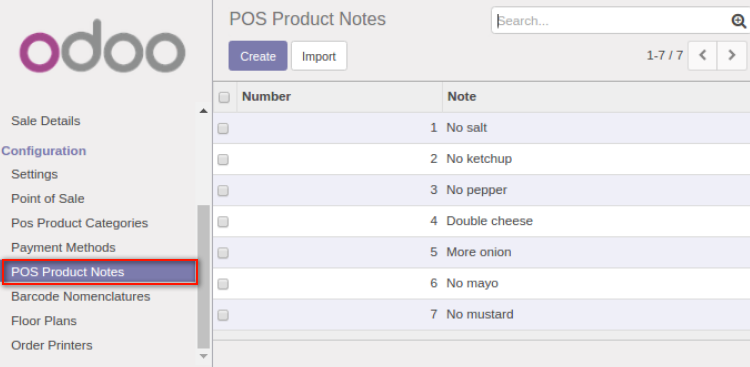
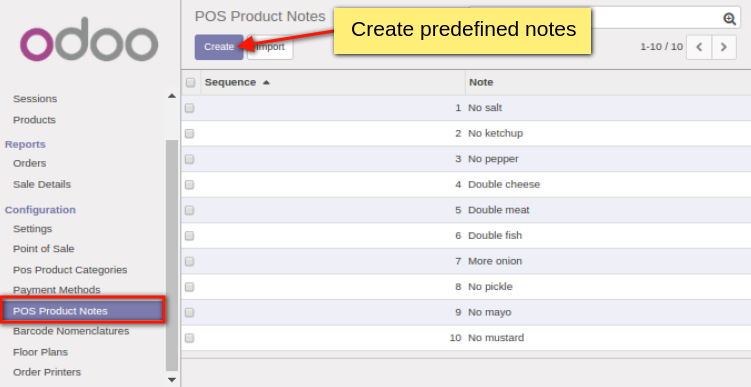
[DOC] documentation for pos_order_note module (it-projects-llc/addons-dev#255)
* [DOC] documentation for pos_order_note module

diff --git a/pos_order_note/static/description/index.html b/pos_order_note/static/description/index.html
@@ -5,7 +5,7 @@
             <h3 class="oe_slogan">Set predefined notes for separate product or entire order</h3>
         </div>
 		<div class="oe_row_img oe_centered">
-		  <img class="oe_demo oe_picture oe_screenshot" src="pos_note_dashboard.png"/>
+		  <img class="oe_demo oe_picture oe_screenshot" src="pos_note_dashboard.png?1"/>
 		</div>
     </div>
 </section>
@@ -33,6 +33,10 @@
 				<i class="fa fa-check-square-o text-primary"></i>
 				create any number of notes
 			  </li>
+			  <li>
+				<i class="fa fa-check-square-o text-primary"></i>
+				ability to apply several notes simultaneously
+			  </li>
 			</ul>
 		</div>
       </p>		
@@ -45,45 +49,45 @@
 	<h3 class="oe_slogan">How It Works</h3>
         <div class="oe_span12 text-center">
           <p class="oe_mt32">
-			Go to <em>Point of Sale &rarr; Configuration &rarr; POS Product Notes</em> menu and create any number of notes
+			<font size="3px">Go to <em>Point of Sale &rarr; Configuration &rarr; POS Product Notes</em> menu and create any number of notes. In POS the notes are displayed depending on sequence value.</font>
           </p>		
         </div>
         <div class="oe_row_img oe_centered">
-          <img class="oe_demo oe_picture oe_screenshot" src="pos_note_config.png"/>
+          <img class="oe_demo oe_picture oe_screenshot" src="pos_note_config.png?1"/>
         </div>
   </div>
 </section>
 
 <section class="oe_container oe_dark">
   <div class="oe_row oe_spaced">
-	<h4 class="oe_slogan">Product Note</h4>
+	<h4 class="oe_slogan">Product Notes</h4>
     <div class="oe_span12 text-center">
       <p class="oe_mt32">
-		Open POS session and click on the "Note" button. By default you can see Product Notes
+		<font size="3px">Open POS session and click on the "Note" button. By default you can see Product Notes</font>
       </p>
     </div>
 	<div class="oe_row_img oe_centered">
-      <img class="oe_demo oe_picture oe_screenshot" src="pos_product_note.png"/>
+      <img class="oe_demo oe_picture oe_screenshot" src="pos_product_note.png?1"/>
     </div>
 	<div class="oe_row_img oe_centered">
-      <img class="oe_demo oe_picture oe_screenshot" src="pos_product_note1.png"/>
+      <img class="oe_demo oe_picture oe_screenshot" src="pos_product_note1.png?1"/>
     </div>
   </div>
 </section>
 
 <section class="oe_container">
   <div class="oe_row oe_spaced">
-	<h4 class="oe_slogan">Order Note</h4>
+	<h4 class="oe_slogan">Order Notes</h4>
     <div class="oe_span12 text-center">
       <p class="oe_mt32">
-		To add a note to entire order switch to Order Note
+		<font size="3px">To add a note to entire order switch to Order Note</font>
       </p>		
     </div>
 	<div class="oe_row_img oe_centered">
-      <img class="oe_demo oe_picture oe_screenshot" src="pos_order_note.png"/>
+      <img class="oe_demo oe_picture oe_screenshot" src="pos_order_note.png?1"/>
     </div>
 	<div class="oe_row_img oe_centered">
-      <img class="oe_demo oe_picture oe_screenshot" src="pos_order_note1.png"/>
+      <img class="oe_demo oe_picture oe_screenshot" src="pos_order_note1.png?1"/>
     </div>
   </div>
 </section>
@@ -92,21 +96,35 @@
   <div class="oe_row oe_spaced">
         <div class="oe_span12 text-center">
           <p class="oe_mt32">
-			Click on the "Other" button to see all predefined notes
+			<font size="3px">Click on the "Other" button to see all predefined notes</font>
           </p>		
         </div>
         <div class="oe_row_img oe_centered">
-          <img class="oe_demo oe_picture oe_screenshot" src="pos_note_other.png"/>
+          <img class="oe_demo oe_picture oe_screenshot" src="pos_note_other.png?1"/>
         </div>
   </div>
 </section>
 
 <section class="oe_container">
   <div class="oe_row oe_spaced">
+	<h4 class="oe_slogan">Order printer receipt</h4>
+        <div class="oe_span12 text-center">
+          <p class="oe_mt32">
+			<font size="3px">Click on the "Order" button and see the product/order notes on receipt printed on Order printer</font>
+          </p>		
+        </div>
+        <div class="oe_row_img oe_centered" align="center">
+          <img src="pos_note_receipt.png"/>
+        </div>
+  </div>
+</section>
+
+<section class="oe_container oe_dark">
+  <div class="oe_row oe_spaced">
 	<h4 class="oe_slogan">Additional feature: automatically applied notes</h4>
     <div class="oe_span12 text-center">
       <p class="oe_mt32">
-		Open product form and go to the "Notes" tab. Here you can set note that will be applied automatically, once you add this product to an order in POS.
+		<font size="3px">Open product form and go to the "Notes" tab. Here you can set note that will be applied automatically, once you add this product to an order in POS.</font>
       </p>		
     </div>
 	<div class="oe_row_img oe_centered">

diff --git a/pos_order_note/doc/index.rst b/pos_order_note/doc/index.rst
@@ -15,7 +15,7 @@ Predefined Notes
 
 * Go to the ``Point of Sale >> Configuration >> POS Product Notes`` menu
 * Click on ``[Create]``
-* Specify ``Number`` and ``Note``
+* Specify ``Sequence`` and ``Note``
 * Click on ``[Save]``
 
 Usage
@@ -24,7 +24,7 @@ Usage
 * Go to the ``Point of Sale`` menu
 * Open a POS session
 * Click on ``Note``
-* Click on ``Product Note`` or ``Order Note`` to set note for separate product or entire order accordingly
-* Select predefined note or set new one
+* Click on ``Product Note`` or ``Order Note`` to apply notes for separate product or entire order accordingly
+* Select predefined notes and/or set a new one
 * Click on ``Ok``
 
